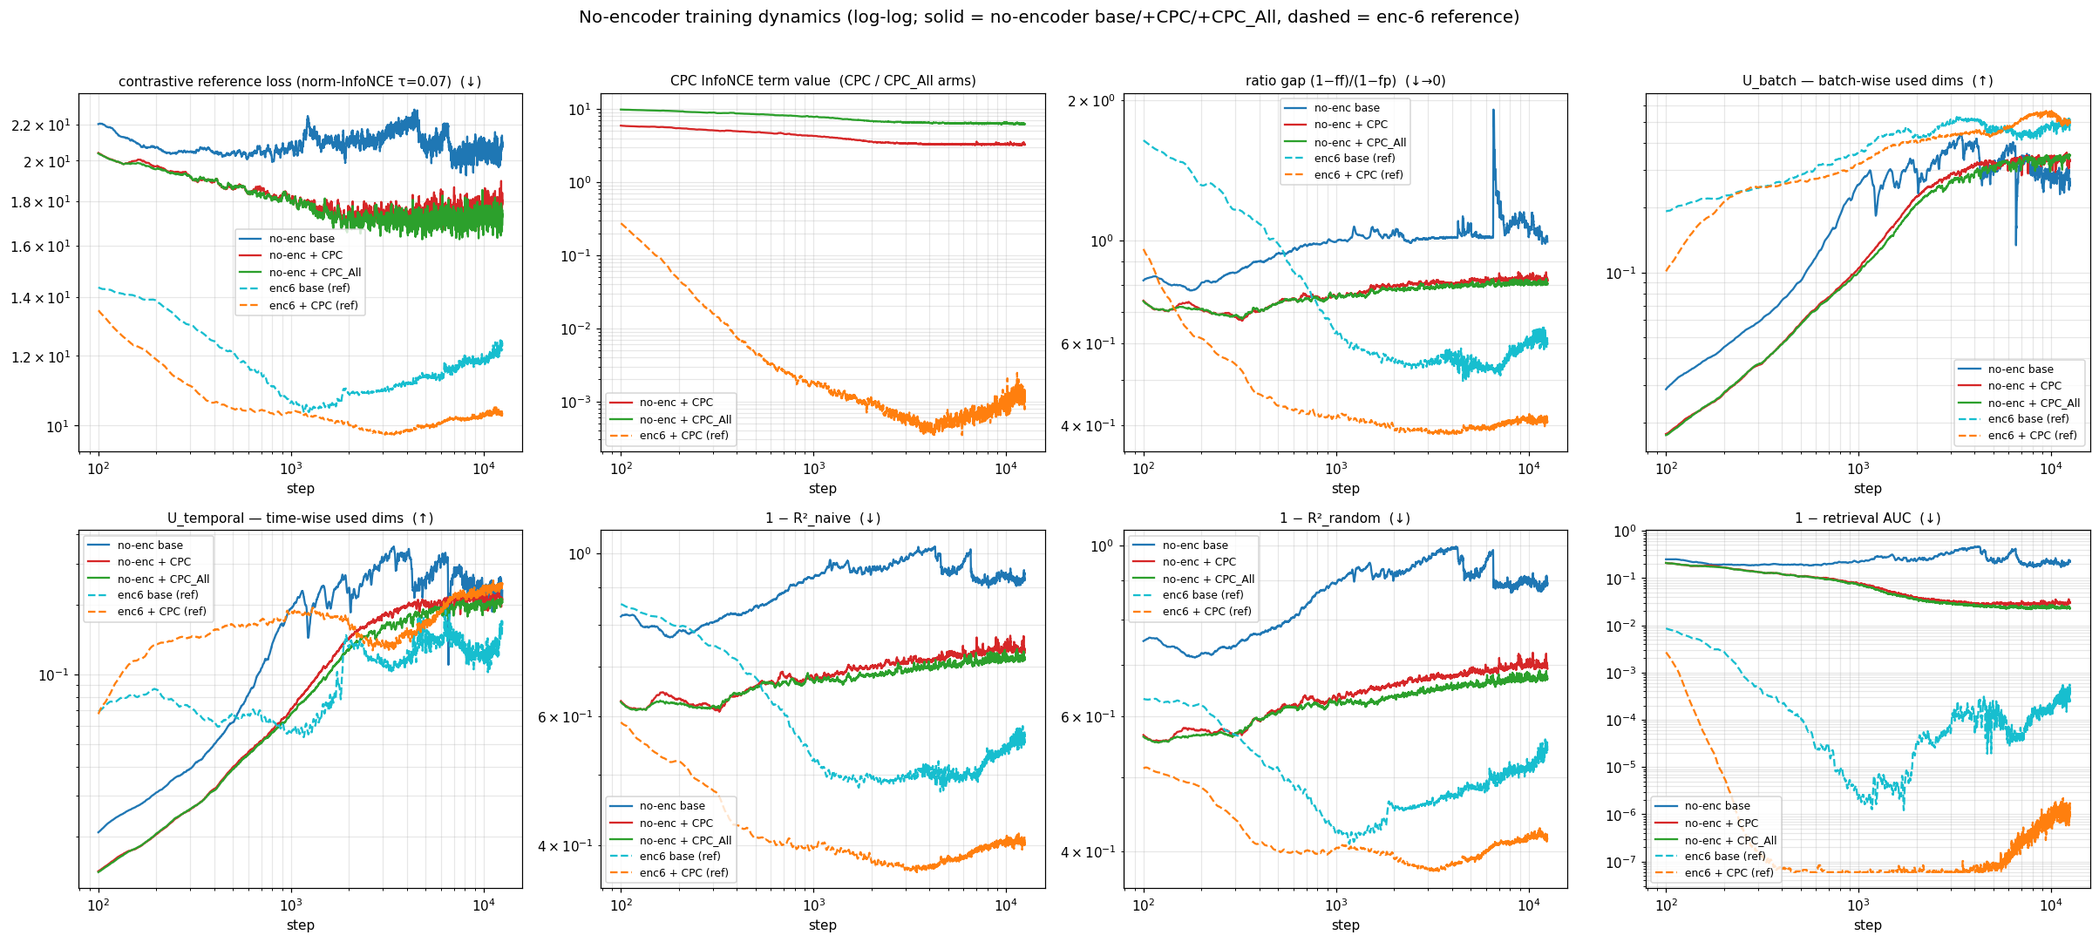
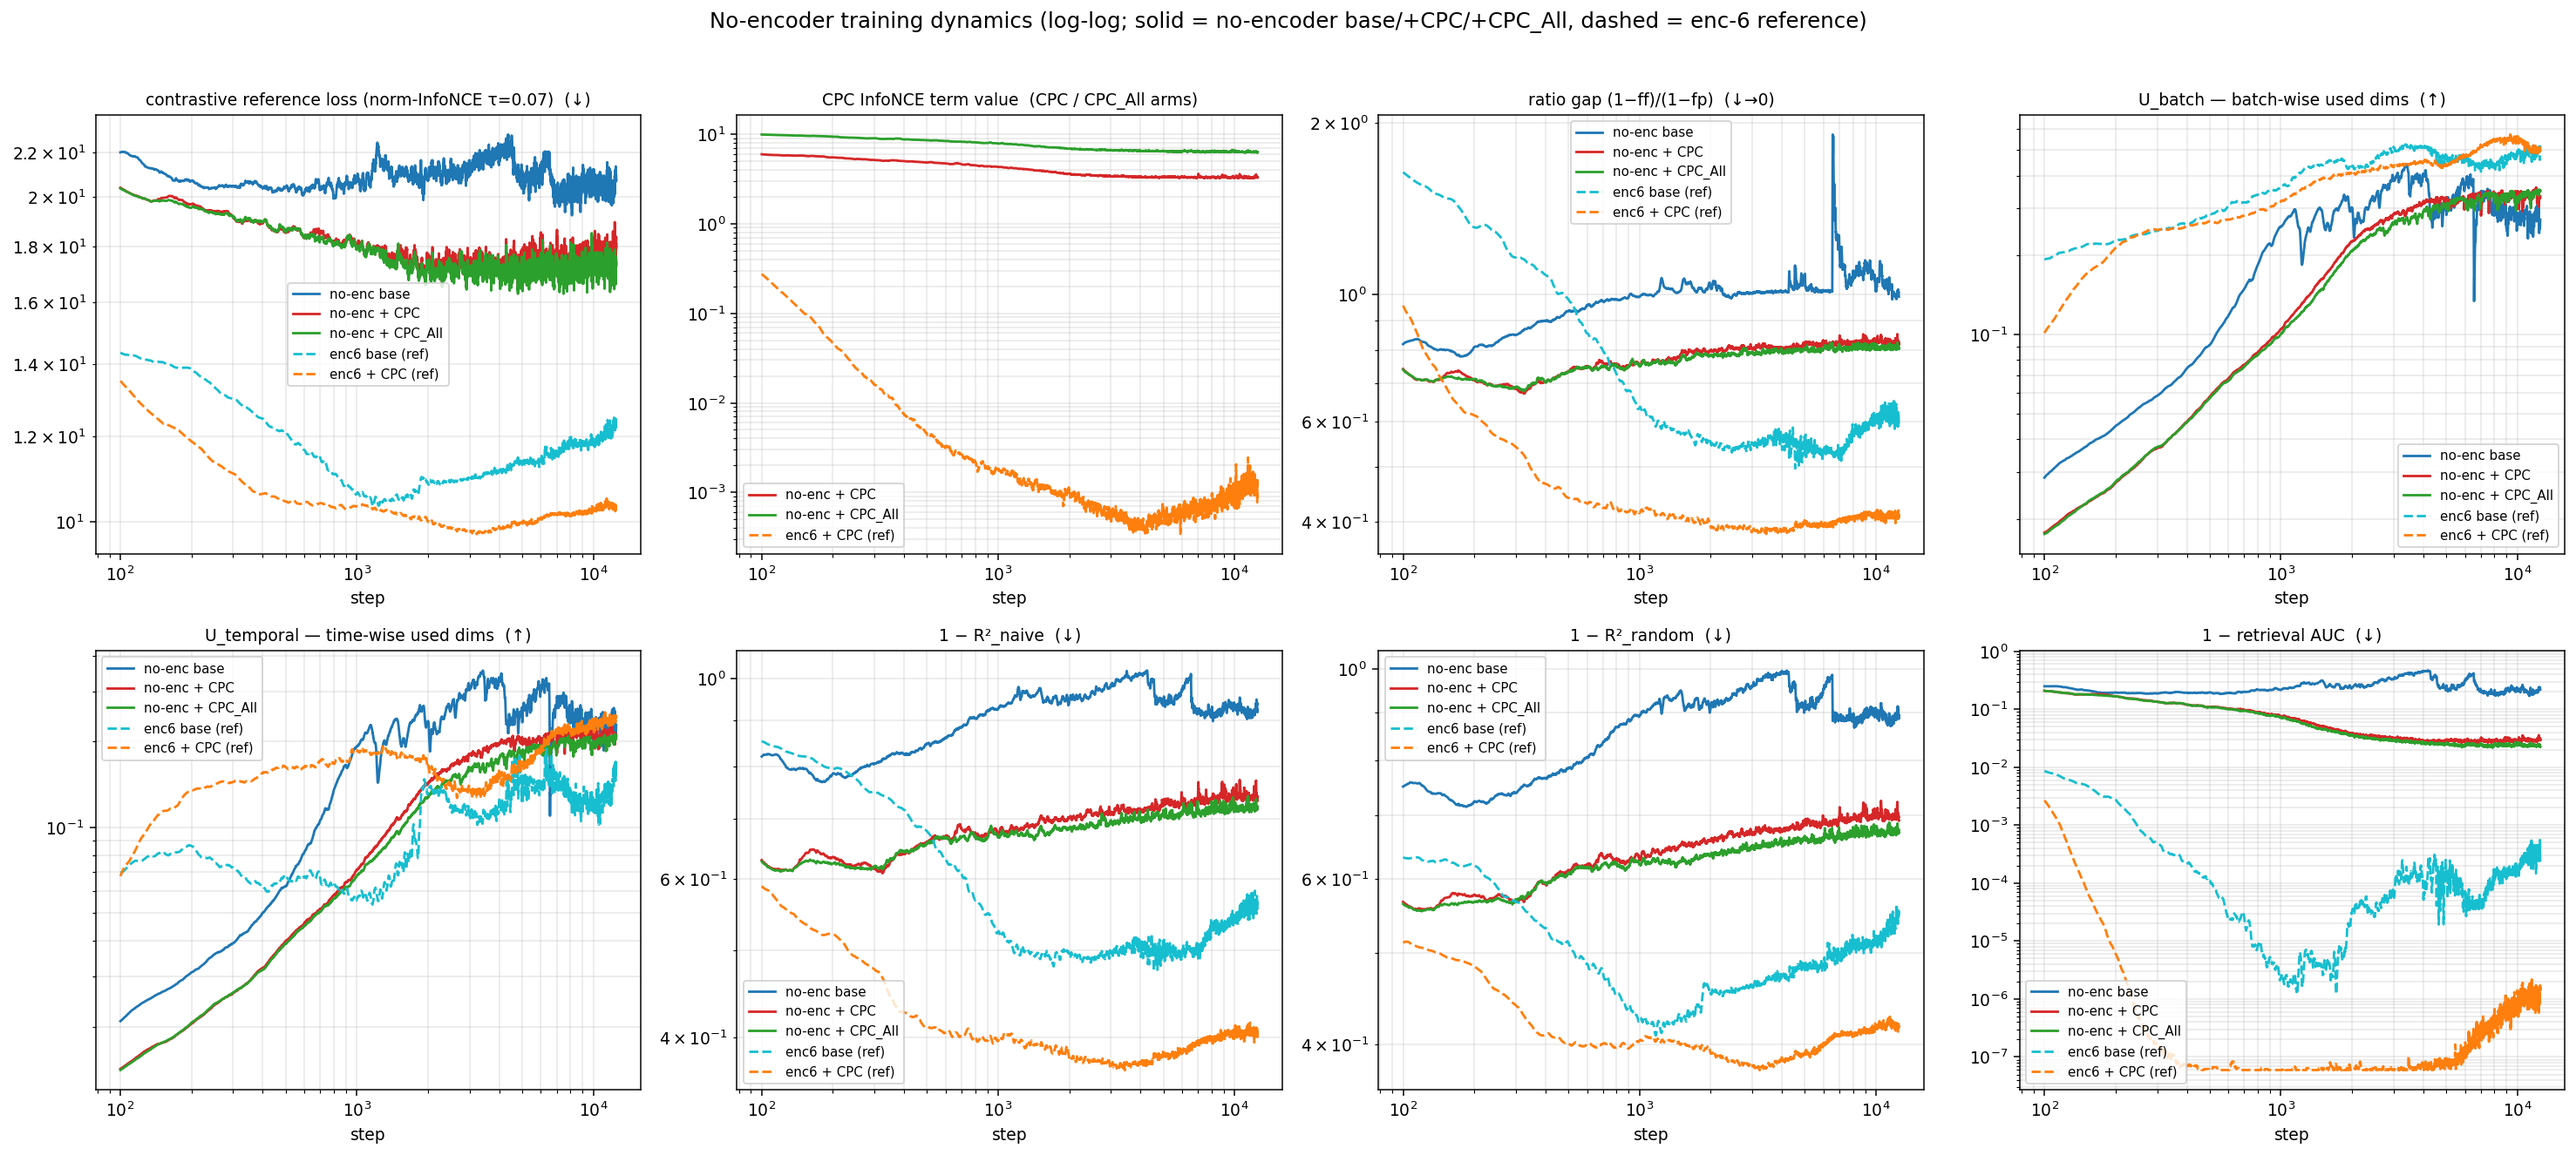
report(#348): address standards-review — forest plot, vocab glossary, declarative title
Review (via scripts/, calibrated on prior merged report PRs) flagged: prose-only
deltas, undefined dynamics vocabulary, topic (not declarative) title, orphan
panels, and a misleading step-count. Changes:
- Replace the delta table + ~28 lines of number-laden prose with a paired-Δ
  forest plot (90% CIs, filled=excludes-0) and an interpretation-only reading.
- Add a cold-reader glossary for the dynamics panels (ff, fp, ratio gap,
  R2_naive/random, U_batch/U_temporal, retrieval AUC, the tau=0.07 reference loss
  vs the tau=0.10 training objective), mirroring the stopgrad_positive wording.
- Declarative factual title stating the measured result.
- Cover the previously-unmentioned ratio-gap / U_batch / U_temporal panels with
  measured tail values.
- Fix the enc-6 CPC-term claim: the smoothed curve does not sit below 1e-3 by
  step 800; restate as a magnitude drop (~0.2 -> ~7e-4 median).
- Rewrite Protocol as three short paragraphs; normalized->normalised.

diff --git a/experiments/2026-06-15_no_encoder_redo/scripts/plot_deltas_forest.py b/experiments/2026-06-15_no_encoder_redo/scripts/plot_deltas_forest.py
@@ -1,0 +1,63 @@
+#!/usr/bin/env python3
+"""Forest plot of every paired-bootstrap Δ in the experiment: Δ = GM(left arm) −
+GM(right arm) on GIFT-Eval full-97, with the 90% interval from resampling the
+97-task list. One panel per head × checkpoint; one row per arm comparison.
+Filled marker = interval excludes zero (reliable); open marker = interval spans
+zero. Reads results/pairwise_table.csv, writes plots/deltas_forest.png.
+"""
+import csv
+import os
+
+import matplotlib
+matplotlib.use("Agg")
+import matplotlib.pyplot as plt
+
+RES = "/home/jupyter/workspaces/contrastive-forecasting/experiments/2026-06-15_no_encoder_redo/results"
+OUT = os.path.join(os.path.dirname(__file__), "..", "plots", "deltas_forest.png")
+
+CELLS = [("2L", "best"), ("2L", "last"), ("6L", "best"), ("6L", "last")]
+# (A key, B key, row label) — Δ = GM(B) − GM(A), matching pairwise_table.csv.
+# Ordered top→bottom; plotted bottom-up so the first row sits at the top.
+ROWS = [
+    ("base_enc3", "noenc_base",    "no-enc base − enc-3 base"),
+    ("base_enc6", "noenc_base",    "no-enc base − enc-6 base"),
+    ("cpc_enc3",  "noenc_cpc",     "no-enc +CPC − enc-3 +CPC"),
+    ("cpc_enc6",  "noenc_cpc",     "no-enc +CPC − enc-6 +CPC"),
+    ("noenc_base", "noenc_cpc",    "no-enc +CPC − no-enc base"),
+    ("noenc_base", "noenc_cpcall", "no-enc +CPC_All − no-enc base"),
+    ("noenc_cpc",  "noenc_cpcall", "no-enc +CPC_All − no-enc +CPC"),
+    ("cpc_enc3",  "noenc_cpcall",  "no-enc +CPC_All − enc-3 +CPC"),
+    ("cpc_enc6",  "noenc_cpcall",  "no-enc +CPC_All − enc-6 +CPC"),
+]
+
+
+def main():
+    d = {(r["A"], r["B"], r["head"], r["ckpt"]):
+         (float(r["delta"]), float(r["ci_lo"]), float(r["ci_hi"]))
+         for r in csv.DictReader(open(f"{RES}/pairwise_table.csv"))}
+    ys = list(range(len(ROWS)))[::-1]  # first row at top
+    fig, axes = plt.subplots(1, 4, figsize=(17, 5.5), sharey=True)
+    for ax, (head, ckpt) in zip(axes, CELLS):
+        for y, (a, b, _) in zip(ys, ROWS):
+            delta, lo, hi = d[(a, b, head, ckpt)]
+            reliable = not (lo < 0 < hi)
+            ax.errorbar(delta, y, xerr=[[delta - lo], [hi - delta]], fmt="o",
+                        color="#1f77b4" if reliable else "0.6",
+                        mfc="#1f77b4" if reliable else "white",
+                        ms=6, capsize=3, lw=1.4)
+        ax.axvline(0, color="k", lw=0.8, ls=":")
+        ax.set_title(f"{head} head · {ckpt}", fontsize=11)
+        ax.set_xlabel("Δ GM-Relative MASE")
+        ax.grid(axis="x", alpha=0.3)
+    axes[0].set_yticks(ys)
+    axes[0].set_yticklabels([r[2] for r in ROWS], fontsize=9)
+    fig.suptitle("Paired-bootstrap Δ = GM(left) − GM(right), 90% interval over the 97 tasks "
+                 "(filled = excludes 0)", fontsize=12)
+    fig.tight_layout(rect=[0, 0, 1, 0.95])
+    os.makedirs(os.path.dirname(OUT), exist_ok=True)
+    fig.savefig(OUT, dpi=120, bbox_inches="tight")
+    print("wrote", os.path.abspath(OUT))
+
+
+if __name__ == "__main__":
+    main()

diff --git a/experiments/2026-06-15_no_encoder_redo/scripts/plot_training_dynamics_noenc.py b/experiments/2026-06-15_no_encoder_redo/scripts/plot_training_dynamics_noenc.py
@@ -90,7 +90,7 @@ def main():
                  "dashed = enc-6 reference)", fontsize=13)
     fig.tight_layout(rect=[0, 0, 1, 0.96])
     os.makedirs(os.path.dirname(OUT), exist_ok=True)
-    fig.savefig(OUT, dpi=110, bbox_inches="tight")
+    fig.savefig(OUT, dpi=135, bbox_inches="tight")
     print("wrote", os.path.abspath(OUT))
 
 

diff --git a/experiments/2026-06-15_no_encoder_redo/no_encoder_redo.md b/experiments/2026-06-15_no_encoder_redo/no_encoder_redo.md
@@ -1,4 +1,4 @@
-# No-encoder backbone: GIFT-Eval forecasting error with and without the CPC term
+# Without the encoder the base loss has higher GIFT-Eval error; the + CPC and + CPC_All arms match the encoder'd backbones
 
 We remove the encoder stack from the backbone (`--num-encoder-layers 0`), so the
 forecaster reads the patch-embedding directly, and measure GIFT-Eval forecasting
@@ -38,34 +38,19 @@ encoder (this work); 3 and 6 = the 3- and 6-layer-encoder backbones.
 | + CPC, enc-6 | 1.179 / 1.180 | 1.158 / 1.162 |
 | + CPC_All, **no encoder** | **1.177 / 1.171** | **1.182 / 1.168** |
 
-Paired-bootstrap Δ = GM(no encoder) − GM(encoder'd), 90% interval (resampling the
-97-task list with repeats; positive ⇒ the no-encoder GM is higher):
+![Forest plot of the paired-bootstrap Δ = GM(left arm) − GM(right arm) on
+GIFT-Eval full-97, with the 90% interval from resampling the 97-task list. One
+panel per head × checkpoint; one row per comparison. A filled marker marks an
+interval that excludes zero, an open marker one that spans it.](plots/deltas_forest.png)
 
-| loss · vs | 2L best | 6L best | 2L last | 6L last |
-|---|--:|--:|--:|--:|
-| base · enc-3 | +0.248 (+0.197, +0.312) | +0.194 (+0.155, +0.242) | +0.084 (+0.059, +0.110) | +0.076 (+0.053, +0.104) |
-| base · enc-6 | +0.245 (+0.186, +0.314) | +0.192 (+0.144, +0.249) | +0.050 (+0.023, +0.079) | +0.046 (+0.018, +0.076) |
-| +CPC · enc-3 | −0.017 (−0.038, +0.004) | −0.005 (−0.027, +0.017) | +0.012 (−0.001, +0.025) | +0.016 (+0.004, +0.031) |
-| +CPC · enc-6 | −0.011 (−0.030, +0.009) | −0.004 (−0.025, +0.016) | −0.016 (−0.033, +0.002) | −0.002 (−0.019, +0.015) |
-
-For the **base** loss every interval is above zero (the no-encoder GM is higher
-by 0.19–0.25 at best-loss, 0.05–0.08 at last). For **+ CPC**, seven of the eight
-intervals straddle zero (the exception is +0.016 at 6L-last vs enc-3).
-
-Adding the CPC term to the no-encoder backbone, Δ = GM(+CPC) − GM(base), 90%
-interval: 2L best −0.258 (−0.325, −0.200), 6L best −0.199 (−0.250, −0.156), 2L
-last −0.099 (−0.124, −0.076), 6L last −0.079 (−0.106, −0.056) — every interval
-below zero.
-
-**+ CPC_All** (no encoder, the full-marginal candidate set) vs **base**, same Δ:
-2L best −0.248 (−0.316, −0.190), 6L best −0.171 (−0.222, −0.122), 2L last −0.093
-(−0.114, −0.073), 6L last −0.071 (−0.094, −0.049) — every interval below zero.
-vs the no-encoder **+ CPC** arm, Δ = GM(+CPC_All) − GM(+CPC): 2L best +0.009
-(+0.000, +0.020), 6L best +0.029 (+0.011, +0.049), 2L last +0.007 (−0.002,
-+0.015), 6L last +0.008 (−0.002, +0.019) — the two last cells straddle zero, the
-two best cells are above it. vs the encoder'd **+ CPC** arms, six of eight
-intervals straddle zero (the exceptions are +0.018 and +0.025 at the last
-checkpoint vs enc-3).
+Reading the intervals: for the **base** loss, every no-encoder − encoder'd
+interval excludes zero — the no-encoder GM is higher, and more so at best-loss
+than at the last checkpoint. For **+ CPC**, those intervals span zero in seven of
+eight cells. Adding either CPC term to the no-encoder backbone (**+ CPC** or
+**+ CPC_All** vs **base**) gives a negative interval that excludes zero in all
+eight cells. **+ CPC_All** sits within ±0.03 of the no-encoder **+ CPC** — the two
+best-loss cells exclude zero, the two last span it — and its intervals against the
+encoder'd **+ CPC** arms span zero in six of eight cells.
 
 ## Training curves
 
@@ -74,13 +59,27 @@ value, ratio gap (1−ff)/(1−fp), U_batch. Bottom row: U_temporal, 1−R²_nai
 1−R²_random, 1−retrieval AUC. Solid = no encoder (blue base / red + CPC / green
 + CPC_All); dashed = enc-6 reference (cyan base / orange + CPC).](plots/training_dynamics.png)
 
-The CPC term's logged value (the CPC InfoNCE term value panel) is ≈3–6 for + CPC
-and ≈6–10 for + CPC_All across the no-encoder runs, and falls below 10⁻³ by about
-step 800 in the encoder'd reference. (The + CPC and + CPC_All term values are on
-different scales — their candidate sets differ in size.) Across training the
-no-encoder + CPC and + CPC_All runs record a lower contrastive reference loss,
-lower 1−R² (both the naive and random panels), and lower 1−AUC than the
-no-encoder base run.
+In the panels, **ff** is the forecast-to-future cosine (the positive pair's
+similarity) and **fp** the forecast-to-present cosine, so the ratio gap
+(1−ff)/(1−fp) falls toward 0 as the positive separates; **R²_naive / R²_random**
+is the variance in the next embedding the forecast explains, relative to a
+copy-the-present / random-embedding baseline (1−R² is the unexplained share);
+**U_batch / U_temporal** is the fraction of embedding dimensions that vary across
+the batch / across time; **retrieval AUC** ranks the positive against the
+negatives. The contrastive reference loss is a fixed-recipe normalised-InfoNCE
+value at temperature 0.07, logged for cross-run comparison and distinct from the
+τ 0.10 training objective.
+
+The CPC term's logged value (CPC InfoNCE term value panel) is ≈3–6 for + CPC and
+≈6–10 for + CPC_All across the no-encoder runs; in the enc-6 reference it drops
+from ≈0.2 early into the 10⁻³–10⁻⁴ band (median ≈7×10⁻⁴ over the latter part of
+training). (The + CPC and + CPC_All term values are not on the same scale: by
+construction the two arms sum over candidate sets of different sizes — see *The
+CPC term*.) Across training the no-encoder + CPC and + CPC_All runs record a lower
+contrastive reference loss, lower 1−R² (both the naive and random panels), and
+lower 1−AUC than the no-encoder base run; they also settle at a lower ratio gap
+(≈0.81–0.83 vs base 1.03) and higher U_batch (≈0.34 vs 0.28), with U_temporal
+slightly lower (≈0.20–0.21 vs 0.23).
 
 From best-loss to last checkpoint, the no-encoder + CPC GM changes by ≤0.007
 (2L 1.168→1.165, 6L 1.153→1.160); the no-encoder base GM is lower at the last
@@ -88,21 +87,24 @@ checkpoint than at best-loss (2L 1.425→1.264, 6L 1.353→1.239).
 
 ## Protocol
 
-One backbone per arm, single seed, one RTX 4090. Each arm is the same recipe —
-GRU patch-embedding, d_model 384 / 6 heads, a 6-layer full-width forecaster, the
-crossfade-triplet allt·0.8% data mix, qk-norm, attention-output norm, the
-`xshh_allt` contrastive loss with positive-in-denominator and floor subtraction,
-the encoder-side positive stop-gradient (`--stopgrad-positive-h`), τ 0.10, batch
-1024, 12,500 steps, seed 20260520 — with the encoder stack removed
-(`--num-encoder-layers 0`). The arms differ only in the loss: **base** is the
-contrastive loss alone; **+ CPC** adds the CPC InfoNCE term (`--cpc-infonce-weight
-1.0`); **+ CPC_All** is the same term with its candidate set widened to the full
-marginal (`--cpc-infonce-negs cross`). To score a backbone we freeze it and train a fresh quantile forecasting
-head, once with two transformer layers and once with six, and evaluate on
-GIFT-Eval's 97 tasks at the best-loss checkpoint (lowest smoothed contrastive
-loss) and the last checkpoint (step 12,500). The enc-3 and enc-6 numbers come
-from separate backbones trained with this identical recipe at encoder depth 3
-and 6 — the experiment changes only the encoder depth.
+One backbone per arm, single seed, one RTX 4090. The shared recipe is a GRU
+patch-embedding, d_model 384 with 6 heads, a 6-layer full-width forecaster, the
+crossfade-triplet allt·0.8% data mix, qk-norm and attention-output norm, the
+`xshh_allt` contrastive loss (positive-in-denominator, floor subtraction), the
+encoder-side positive stop-gradient (`--stopgrad-positive-h`), τ 0.10, batch
+1024, 12,500 steps, and seed 20260520. The encoder stack is removed with
+`--num-encoder-layers 0`.
+
+The arms differ only in the loss. **base** is the contrastive loss alone.
+**+ CPC** adds the CPC InfoNCE term (`--cpc-infonce-weight 1.0`). **+ CPC_All** is
+the same term with its candidate set widened to the full marginal
+(`--cpc-infonce-negs cross`).
+
+To score a backbone we freeze it and train a fresh quantile forecasting head,
+once with two transformer layers and once with six. We evaluate on GIFT-Eval's 97
+tasks at the best-loss checkpoint (lowest smoothed contrastive loss) and the last
+checkpoint (step 12,500). The enc-3 and enc-6 backbones use this identical recipe
+at encoder depth 3 and 6; the experiment changes only the encoder depth.
 
 ## The CPC term
 
@@ -115,7 +117,7 @@ forecaster context `h_t` through a learnable log-bilinear score
 L_cpc = − log(  exp(e_{t+1}ᵀ W₁ h_t)  /  Σ_{e_j ∈ C}  exp(e_jᵀ W₁ h_t)  )
 ```
 
-The positive sits in the denominator (normalized InfoNCE ≥ 0), summed
+The positive sits in the denominator (normalised InfoNCE ≥ 0), summed
 equal-weight, no stop-gradient, no temperature (`W₁` carries the scale). The
 candidate set `C` differs by arm: **+ CPC** uses the matched-step cross-batch
 embeddings plus the same sequence's other-step embeddings; **+ CPC_All** uses the
